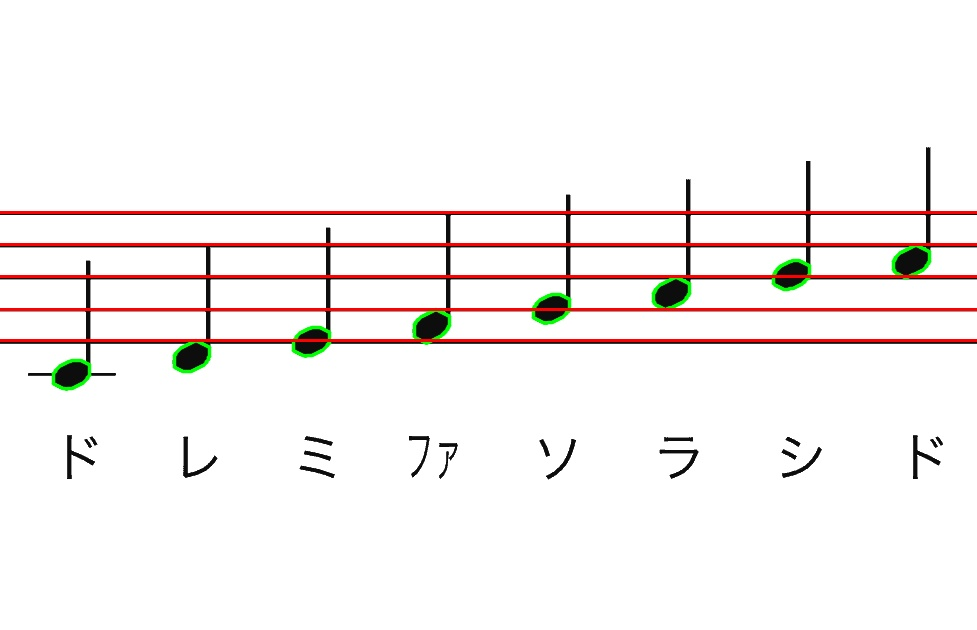
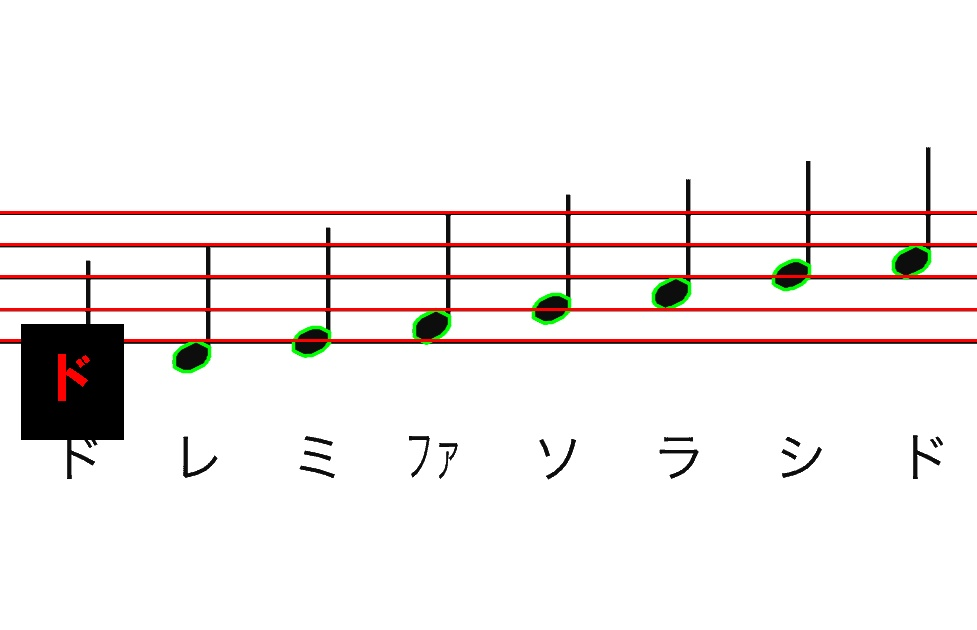
[add] overlaps based image.

Changed region(s): [[0.0, 0.5127, 0.1535, 0.7238]]

diff --git a/assets/Handlers.py b/assets/Handlers.py
@@ -5,7 +5,7 @@ import math
 WINDOW_NAME_INPUT = "input"
 WINDOW_NAME_OUTPUT = "output"
 
-
+### FileHandler defines basic I/O handling functions.
 class FileHandler:
     def input_image(src_path):
         img = cv2.imread(src_path, cv2.IMREAD_COLOR)
@@ -24,65 +24,75 @@ class FileHandler:
         cv2.destroyAllWindows()
 
 
+### ManipulateImage defines arbitrary processing on the image.
 class ManipulateImage:
     def edge_detection(src_img):
+        do2_img = cv2.imread("./img/note/0_do.png", cv2.IMREAD_COLOR)
+        do_img = cv2.resize(do2_img, None, None, 0.12, 0.12)
+
+        mask = np.all(do_img[:, :, :] == [0, 0, 0], axis=-1)
+        do_img = cv2.cvtColor(do_img, cv2.COLOR_BGR2BGRA)
+        do_img[mask, 3] = 0
 
         # image size calculation
         height, width, channels = src_img.shape
         img_size = height * width
         print(img_size)
 
-        # grayscale conversion
         # 白黒画像に変換
         gray_img = cv2.cvtColor(src_img, cv2.COLOR_RGB2GRAY)
-        # FileHandler.output_image(WINDOW_NAME_DEBUG, gray_img)
+        FileHandler.output_image("gray_img", gray_img)
 
-        # 画像処理では白い部分に物がある扱いになるので，音符や五線譜が白くなるように白黒反転
+        # 画像処理では白い部分に物がある扱いになるので, 音符や五線譜が白くなるように白黒反転
         bitwise_gray_img = cv2.bitwise_not(gray_img)
         FileHandler.output_image("bitwise_gray_img", bitwise_gray_img)
 
         # 大津の２値化で0か255に変換
-        retval, threshold_img = cv2.threshold(bitwise_gray_img, 240, 255, cv2.THRESH_OTSU)
+        retval, threshold_img = cv2.threshold(
+            bitwise_gray_img, 240, 255, cv2.THRESH_OTSU
+        )
         FileHandler.output_image("threshold_img", threshold_img)
 
         # 各音符のエッジを検出
         contours, hierarchy = ManipulateImage.find_notes(src_img, threshold_img)
+
         # エッジから各音符の重心座標を取得
         notes_xy_arr = ManipulateImage.get_scores_xy_array(contours)
+        print("xy:", notes_xy_arr)
 
         # 五線譜の線の高さの配列を取得
-        score_lines_rho_arr = ManipulateImage.get_score_lines_rho_array(src_img, threshold_img)
+        score_lines_rho_arr = ManipulateImage.get_score_lines_rho_array(
+            src_img, threshold_img
+        )
 
-        score_list= ["ド", "レ", "ミ", "ファ", "ソ", "ラ", "シ"]
+        score_list = ["ド", "レ", "ミ", "ファ", "ソ", "ラ", "シ"]
         # 線の外のドや線と線の間の音符を検出するためにちょっと加工する
         # 五線譜を下から見るために逆順にする
         score_lines_rho_arr.reverse()
-        between_lines_length = abs(score_lines_rho_arr[0]-score_lines_rho_arr[1])
-        between_lines_half_length = math.floor(between_lines_length/2)
-        score_lines_rho_arr.insert(0, score_lines_rho_arr[0]+between_lines_length)
+        between_lines_length = abs(score_lines_rho_arr[0] - score_lines_rho_arr[1])
+        between_lines_half_length = math.floor(between_lines_length / 2)
+        score_lines_rho_arr.insert(0, score_lines_rho_arr[0] + between_lines_length)
         # 上のコードの時点で配列に「ドミソシレファ」に当たる高さが入っている．間が足りないので埋める．
         # 方法は線と線の間の長さの半分を各要素に足した値を間に入れる(下から見ていってるからほんとは引く必要があった．)
         score_height_base = []
         for item in score_lines_rho_arr:
             score_height_base.append(item)
-            score_height_base.append(item-between_lines_half_length)
+            score_height_base.append(item - between_lines_half_length)
         # 最後に一番下のドと同じ立ち位置の一番上のラを追加する
-        score_height_base.append(score_height_base[-1]-between_lines_half_length)
+        score_height_base.append(score_height_base[-1] - between_lines_half_length)
         print(score_height_base)
-
         # 音符がどの線と一番高さが近いかを判定してどの音階か取得
         for note_index, note in enumerate(notes_xy_arr):
             min = 100
             min_index = 0
             for index, height in enumerate(score_height_base):
-                diff = abs(height - note[1])
+                diff = abs(height - note[1])  # note[0] = x軸 / note[1] = y軸
                 if diff < min:
                     min = diff
                     min_index = index
-            print(f'{note_index}番目の音符は, {score_list[min_index%7]}')
-
-
-
+            print(f"{note_index}番目の音符は, {score_list[min_index%7]}")
+            print(f"{note_index}番目の音符は, {note[0]}, {note[1]}")
+        ManipulateImage.overlay(src_img, do_img, 71, 374)
 
         # # retval, dst = cv2.threshold(gray_img, 190, 255, cv2.THRESH_TOZERO_INV)
         # dst = cv2.bitwise_not(dst)
@@ -104,13 +114,16 @@ class ManipulateImage:
 
         # # ManipulateImage.circle_detection(src_img, dst)
 
+    # find_notes finds hodges in the input image.
     def find_notes(src_img, threshold_img):
-        kernel = cv2.getStructuringElement(cv2.MORPH_ELLIPSE,(5,5))
+        kernel = cv2.getStructuringElement(cv2.MORPH_ELLIPSE, (5, 5))
         dst = cv2.morphologyEx(threshold_img, cv2.MORPH_OPEN, kernel, iterations=4)
 
         FileHandler.output_image("dst", dst)
 
-        contours, hierarchy = cv2.findContours(dst, cv2.RETR_EXTERNAL, cv2.CHAIN_APPROX_SIMPLE)
+        contours, hierarchy = cv2.findContours(
+            dst, cv2.RETR_EXTERNAL, cv2.CHAIN_APPROX_SIMPLE
+        )
 
         dst = cv2.drawContours(src_img, contours, -1, (0, 255, 0), 2, cv2.LINE_AA)
 
@@ -125,7 +138,7 @@ class ManipulateImage:
             # モーメントから重心を計算する。
             cx = M["m10"] / M["m00"]
             cy = M["m01"] / M["m00"]
-            arr.append([cx,cy])
+            arr.append([cx, cy])
         return arr
 
     # 横線のみを検出してその線のrhoを返す．この場合rhoは実質yと同じとして扱える．（rhoは線と垂直な原点とつなぐ線の長さのため）
@@ -144,7 +157,9 @@ class ManipulateImage:
                 x1, y1 = rho, 0
                 x2, y2 = rho, h
             else:
-                calc_y = lambda x: rho / np.sin(theta) - x * np.cos(theta) / np.sin(theta)
+                calc_y = lambda x: rho / np.sin(theta) - x * np.cos(theta) / np.sin(
+                    theta
+                )
                 x1, y1 = 0, int(calc_y(0))
                 x2, y2 = w, int(calc_y(w))
 
@@ -159,35 +174,73 @@ class ManipulateImage:
 
         return lines_rho_arr
 
+    def overlay(back_img, fore_img, x, y):
+        # shift_x, shift_y = (0, 0)
+
+        # fore_h, fore_w = fore_img.shape[:2]
+        # fore_x_min, fore_x_max = 0, fore_w
+        # fore_y_min, fore_y_max = 0, fore_h
+
+        # back_h, back_w = back_img.shape[:2]
+        # back_x_min, back_x_max = shift_y, shift_y + fore_h
+        # back_y_min, back_y_max = shift_x, shift_x + fore_w
+
+        # if back_x_min < 0:
+        #     fore_x_min = fore_x_min - back_x_min
+        #     back_x_min = 0
+
+        # if back_x_max > back_w:
+        #     fore_x_max = fore_x_max - (back_x_max - back_w)
+        #     back_x_max = back_w
+
+        # if back_y_min < 0:
+        #     fore_y_min = fore_y_min - back_y_min
+        #     back_y_min = 0
+
+        # if back_y_max > back_h:
+        #     fore_y_max = fore_y_max - (back_y_max - back_h)
+        #     back_y_max = back_h
+
+        # back_img[back_y_min:back_y_max, back_x_min:back_x_max] = fore_img[
+        #     fore_y_min:fore_y_max, fore_x_min:fore_x_max
+        # ]
+        dx = x - 50  # 横方向の移動距離
+        dy = y - 50  # 縦方向の移動距離
+        h, w = fore_img.shape[:2]
+        back_img[dy : dy + h, dx : dx + w] = fore_img
+
+        FileHandler.output_image("over_lay", back_img)
+
+    # def musical_scale_definition:
 
 
-    # def circle_detection(src_img, gray_img):
-    #     circles = cv2.HoughCircles(
-    #         gray_img,
-    #         cv2.HOUGH_GRADIENT,
-    #         dp=1.5,
-    #         minDist=100,
-    #         maxRadius=100,
-    #         param1=100,
-    #         param2=25,
-    #     )
-    #     print(circles)
-    #     for c in circles[0, :]:
-    #         # 円周を描画する
-    #         cv2.circle(
-    #             src_img,
-    #             (int(c[0]), int(c[1])),
-    #             int(c[2]),
-    #             (
-    #                 0,
-    #                 0,
-    #                 165,
-    #             ),
-    #         )
-    #     FileHandler.output_image("detect cirecle", src_img)
+# def circle_detection(src_img, gray_img):
+#     circles = cv2.HoughCircles(
+#         gray_img,
+#         cv2.HOUGH_GRADIENT,
+#         dp=1.5,
+#         minDist=100,
+#         maxRadius=100,
+#         param1=100,
+#         param2=25,
+#     )
+#     print(circles)
+#     for c in circles[0, :]:
+#         # 円周を描画する
+#         cv2.circle(
+#             src_img,
+#             (int(c[0]), int(c[1])),
+#             int(c[2]),
+#             (
+#                 0,
+#                 0,
+#                 165,
+#             ),
+#         )
+#     FileHandler.output_image("detect cirecle", src_img)
 
-    # def five_lines_detection(src_img):
-    #     gray_img = cv2.cvtColor(src_img, cv2.COLOR_RGB2GRAY)
-    #     line_retval, line_dst = cv2.threshold(gray_img, 200, 255, cv2.THRESH_BINARY_INV)
-    #     line_dst = cv2.bitwise_not(line_dst)
-    #     cv2.HoughLinesP()
+# def five_lines_detection(src_img):
+#     gray_img = cv2.cvtColor(src_img, cv2.COLOR_RGB2GRAY)
+#     line_retval, line_dst = cv2.threshold(gray_img, 200, 255, cv2.THRESH_BINARY_INV)
+#     line_dst = cv2.bitwise_not(line_dst)
+#     cv2.HoughLinesP()
